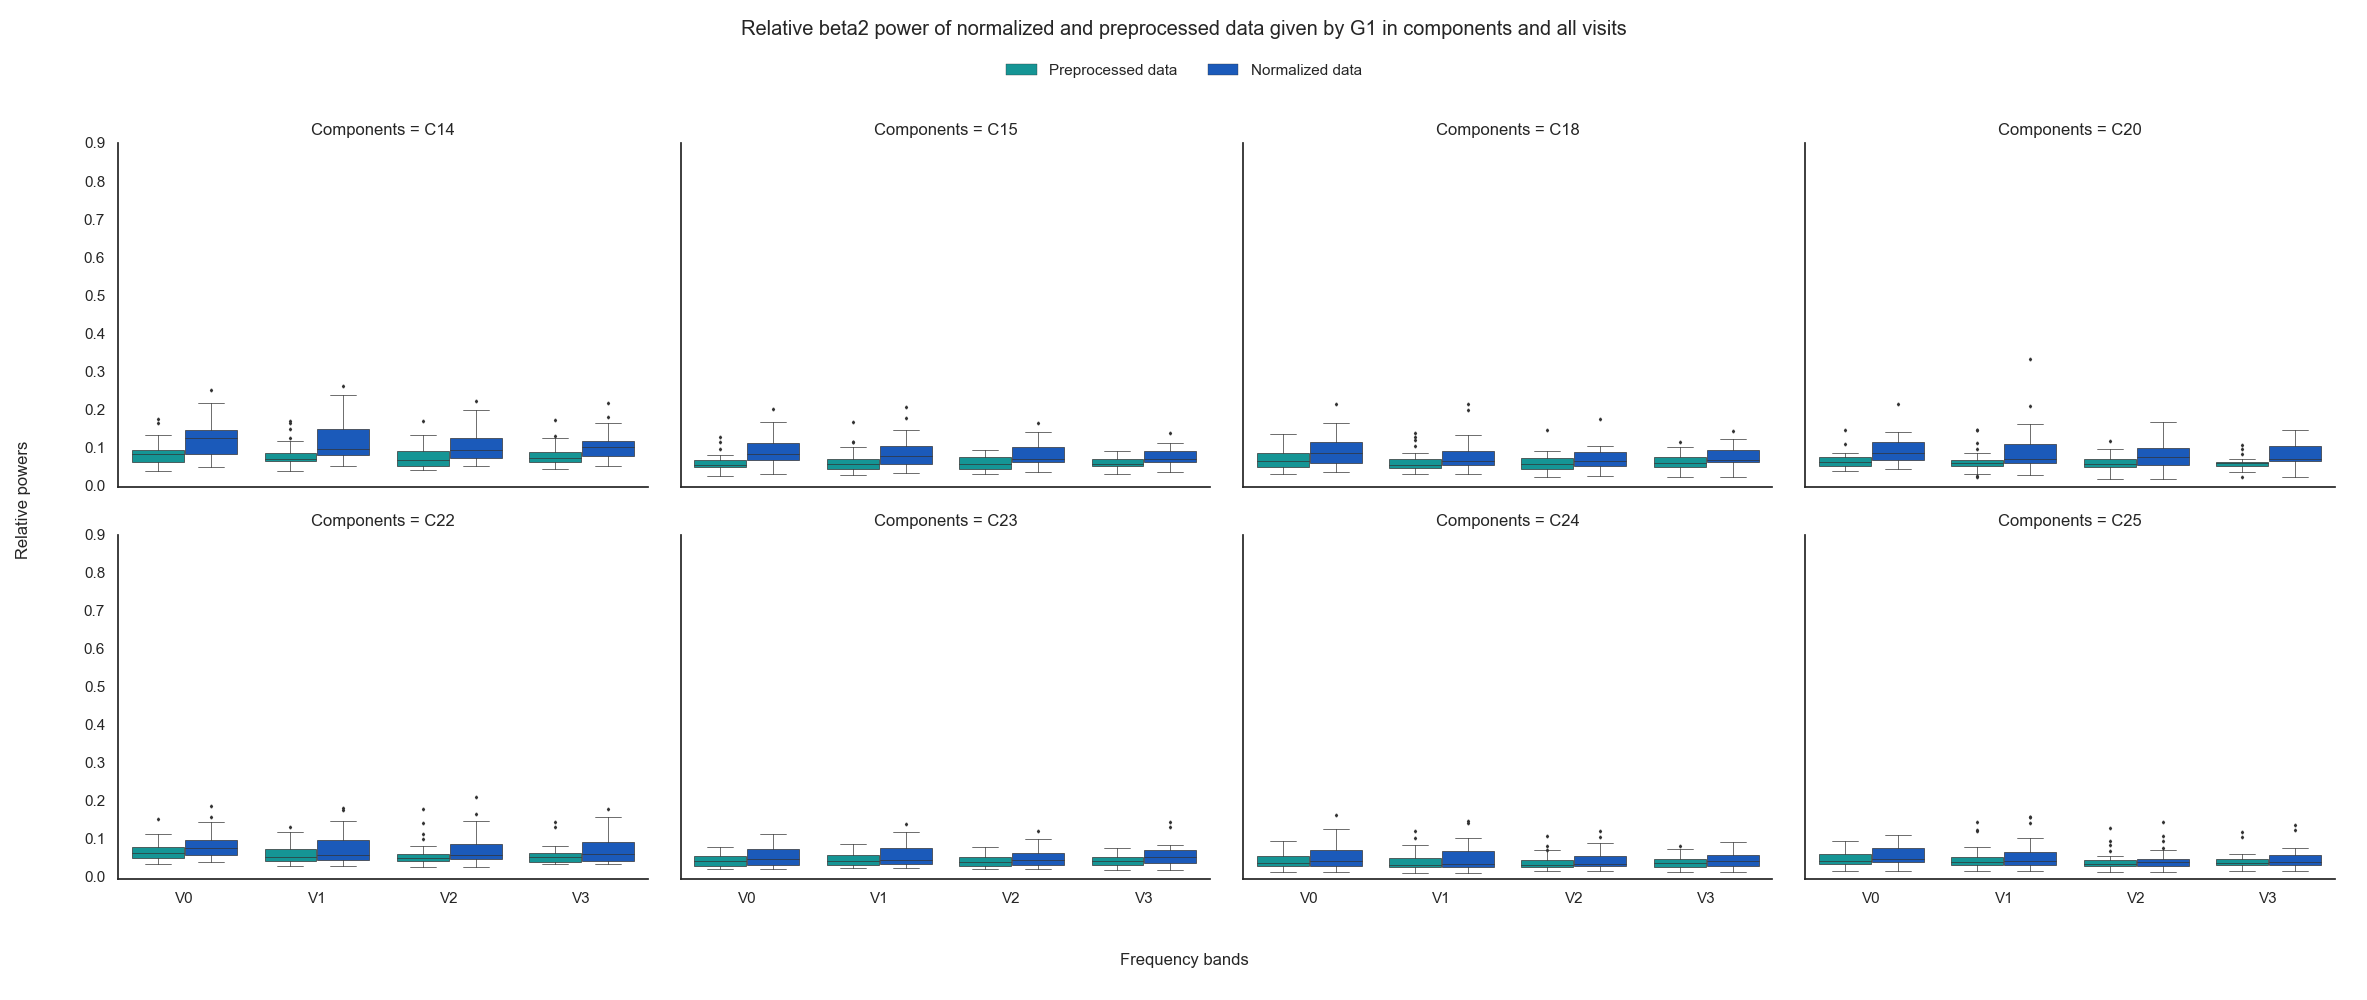
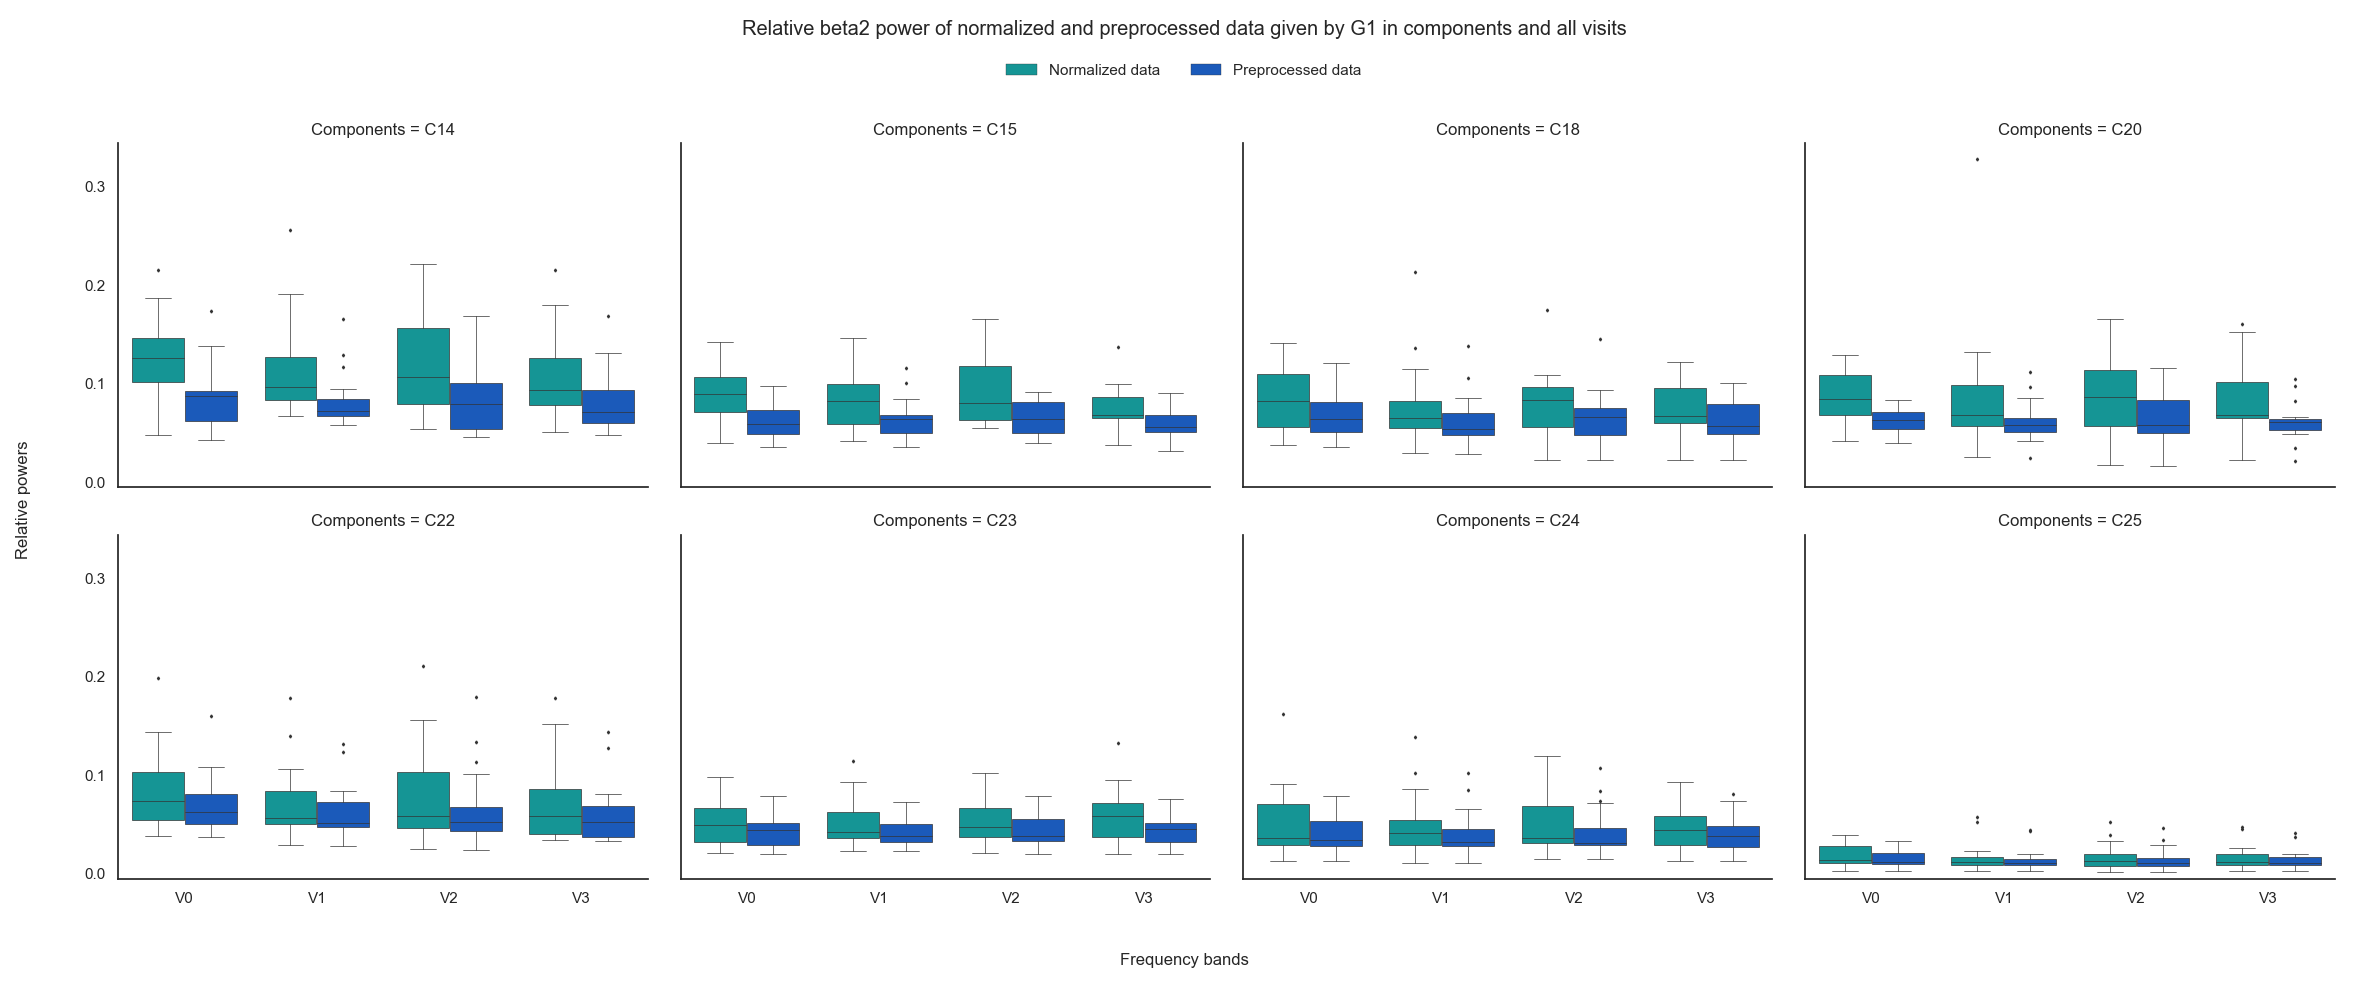
Graficos componentes

diff --git a/test_graphics_components_powers.py b/test_graphics_components_powers.py
@@ -4,32 +4,38 @@ from datasets import BIOMARCADORES
 from sovaViolin.functions_postprocessing_components import compare_norm_1D_1G_nB_ncomp_power,compare_norm_1D_1G_1B_nV_ncomp_power,compare_norm_1D_1G_1B_nV_all_comp_power
 import pandas as pd 
 import os 
+import collections
 
-''' 
-# Just run one time for save the csv and concat the normalize and preprocessing data
+datos1=pd.read_excel(r"Dataframes\longitudinal_data_powers_long_components_norm.xlsx") 
+datos2=pd.read_excel(r"Dataframes\longitudinal_data_powers_long_components.xlsx")
+datos=pd.concat((datos1,datos2))
 
-get_dataframe_powers_components([BIOMARCADORES], stage=None)
-get_dataframe_powers_components([BIOMARCADORES], stage="norm")
-icpowers_long=pd.read_excel(r'Dataframes\longitudinal_data_icpowers_long.xlsx')
-icpowers_norm_long=pd.read_excel(r'Dataframes\longitudinal_data_icpowers_norm_long.xlsx')
-data=pd.concat((icpowers_long,icpowers_norm_long)) # concatenate dataframes 
-data.to_csv('Dataframes\longitudinal_data_icpowers_long_norm.csv',index=False) # saved dataframe
+datos=datos.drop(datos[datos['Session']=='V4P'].index)#Borrar datos
+sessions=datos['Session'].unique() #sesiones 
 
-'''
+G=['G1','G2']
 
-def load_feather(path):
-    data=pd.read_feather(os.path.join(path).replace("\\","/"))
-    return data
+for i in G:
+    g=datos[datos['Group']==i]
+    visitas=g['Session'].unique()
+    sujetos=g['Subject'].unique()
+    print('Cantidad de sujetos de '+i+': ', len(sujetos))
+    k=0
+    for j in sujetos:
+        s=g[g['Subject']==j]
+        if (collections.Counter(s['Session'].unique()) == collections.Counter(visitas)):
+            None
+        else:
+            k=k+1
+            datos=datos.drop(datos[datos['Subject']==j].index)
+            #print(j) #Sujeto sin todas 
+            #print(s['Session'].unique())
+    print('Sujetos a borrar:', k)
+    print('Sujetos a analizar con todas las visitas: ',len(sujetos)-k)
 
-data_comp=r'F:\BIOMARCADORES\derivatives\longitudinal_data_powers_long_components.feather'
-data_comp_norm=r'F:\BIOMARCADORES\derivatives\longitudinal_data_powers_long_components_norm.feather'
+datos=datos[datos.Group.isin(G)]
 
-data=load_feather(data_comp)
-data_norm=load_feather(data_comp_norm)
-
-datos=pd.concat((data,data_norm))
-
-GB = ['G1','CTR','DCL','DTA']
+#GB = ['G1','CTR','DCL','DTA']
 ## Graphics for groups in components 
 # for gr in GB:
 #     compare_norm_1D_1G_nB_ncomp_power(datos,'BIOMARCADORES',gr,save=False)
@@ -37,5 +43,8 @@ GB = ['G1','CTR','DCL','DTA']
 
 ## Graphics for groups and all visits in components 
 bands= datos['Bands'].unique()
-for gr in GB:
-    compare_norm_1D_1G_1B_nV_all_comp_power(datos,'BIOMARCADORES',gr,num_columns=4, save=True,plot=False,encode=False)
+
+for gr in G:
+    for band in bands:
+        compare_norm_1D_1G_1B_nV_ncomp_power(datos,'BIOMARCADORES',gr, band,num_columns=4, save=True,plot=True,encode=False)
+        

diff --git a/sovaViolin/functions_rois.py b/sovaViolin/functions_rois.py
@@ -16,8 +16,8 @@ PO = ['P7', 'P5', 'P3', 'P1', 'PZ', 'P2', 'P4', 'P6', 'P8', 'PO7', 'PO5', 'PO3',
 rois = [F,C,PO,T]
 roi_labels = ['F','C','PO','T']
 
-datos1=pd.read_excel(r"violinplot\Dataframes\longitudinal_data_powers_long_channels.xlsx") 
-datos2=pd.read_excel(r"violinplot\Dataframes\longitudinal_data_powers_long_channels_norm.xlsx")
+datos1=pd.read_excel(r"Dataframes\longitudinal_data_powers_long_channels_norm.xlsx") 
+datos2=pd.read_excel(r"Dataframes\longitudinal_data_powers_long_channels.xlsx")
 datos=pd.concat((datos1,datos2))
 
 for i in range(len(rois)):
@@ -68,14 +68,14 @@ def compare_norm_1D_1G_1B_nV_ncomp_power(data,name_dataset,name_band, save=False
     ----------
         img_encode
     '''
-    data['Session']=data['Session'].replace({'VO':'V0'})
+    #data['Session']=data['Session'].replace({'VO':'V0'})
     #data['Group']=data['Group'].replace({'G2':'CTR'})
     filter=data["Study"]==name_dataset
     filter_group_dataset=data[filter]
     sns.set(rc={'figure.figsize':(11.7,8.27)})
     sns.set_theme(style="white")
     axs=sns.catplot(x='Session',y="Powers",data=filter_group_dataset,hue='Stage',dodge=True, kind="box",col='Roi',row='Group',palette='winter_r',fliersize=1.5,linewidth=0.5,legend=False)
-    plt.yticks(np.arange(0,1,0.1))
+    #plt.yticks(np.arange(0,1,0.1))
     axs.set(xlabel=None)
     axs.set(ylabel=None)
     axs.fig.suptitle('Relative '+ name_band+ ' power of normalized and preprocessed data in ROI and all visits')
@@ -84,7 +84,7 @@ def compare_norm_1D_1G_1B_nV_ncomp_power(data,name_dataset,name_band, save=False
     axs.fig.text(0.5, 0.04, 'Visits', ha='center', va='center')
     axs.fig.text(0.01, 0.5,  'Relative powers', ha='center', va='center',rotation='vertical')
     if save==True:
-        plt.savefig('violinplot\Resultados\Graphics_rois\{name_dataset}_{name_band}_rois.png'.format(name_dataset=name_dataset,name_band=name_band))
+        plt.savefig('Resultados\Graphics_rois\{name_dataset}_{name_band}_rois.png'.format(name_dataset=name_dataset,name_band=name_band))
         plt.close()
     if plot:
         plt.show()

diff --git a/sovaViolin/functions_postprocessing_components.py b/sovaViolin/functions_postprocessing_components.py
@@ -1,6 +1,6 @@
 from tokenize import group
 import matplotlib
-matplotlib.use('Agg')
+#matplotlib.use('Agg')
 import matplotlib.pyplot as plt 
 import seaborn as sns
 import pandas as pd
@@ -135,7 +135,7 @@ def compare_norm_1D_1G_1B_nV_ncomp_power(data,name_dataset,name_group,name_band,
         img_encode
     '''
     data['Session']=data['Session'].replace({'VO':'V0'})
-    data['Group']=data['Group'].replace({'G2':'CTR'})
+    #data['Group']=data['Group'].replace({'G2':'CTR'})
     filter=np.logical_and(data["Study"]==name_dataset, data["Group"]==name_group)
     filter_group_dataset=data[filter]
     components=['C14', 'C15','C18', 'C20', 'C22','C23', 'C24', 'C25' ]
@@ -183,7 +183,7 @@ def compare_norm_1D_1G_1B_nV_all_comp_power(data,name_dataset,name_group,num_col
         img_encode
     '''
     data['Session']=data['Session'].replace({'VO':'V0'})
-    data['Group']=data['Group'].replace({'G2':'CTR'})
+    #data['Group']=data['Group'].replace({'G2':'CTR'})
     filter=np.logical_and(data["Study"]==name_dataset, data["Group"]==name_group)
     filter_group_dataset=data[filter]
     sns.set(rc={'figure.figsize':(11.7,8.27)})
